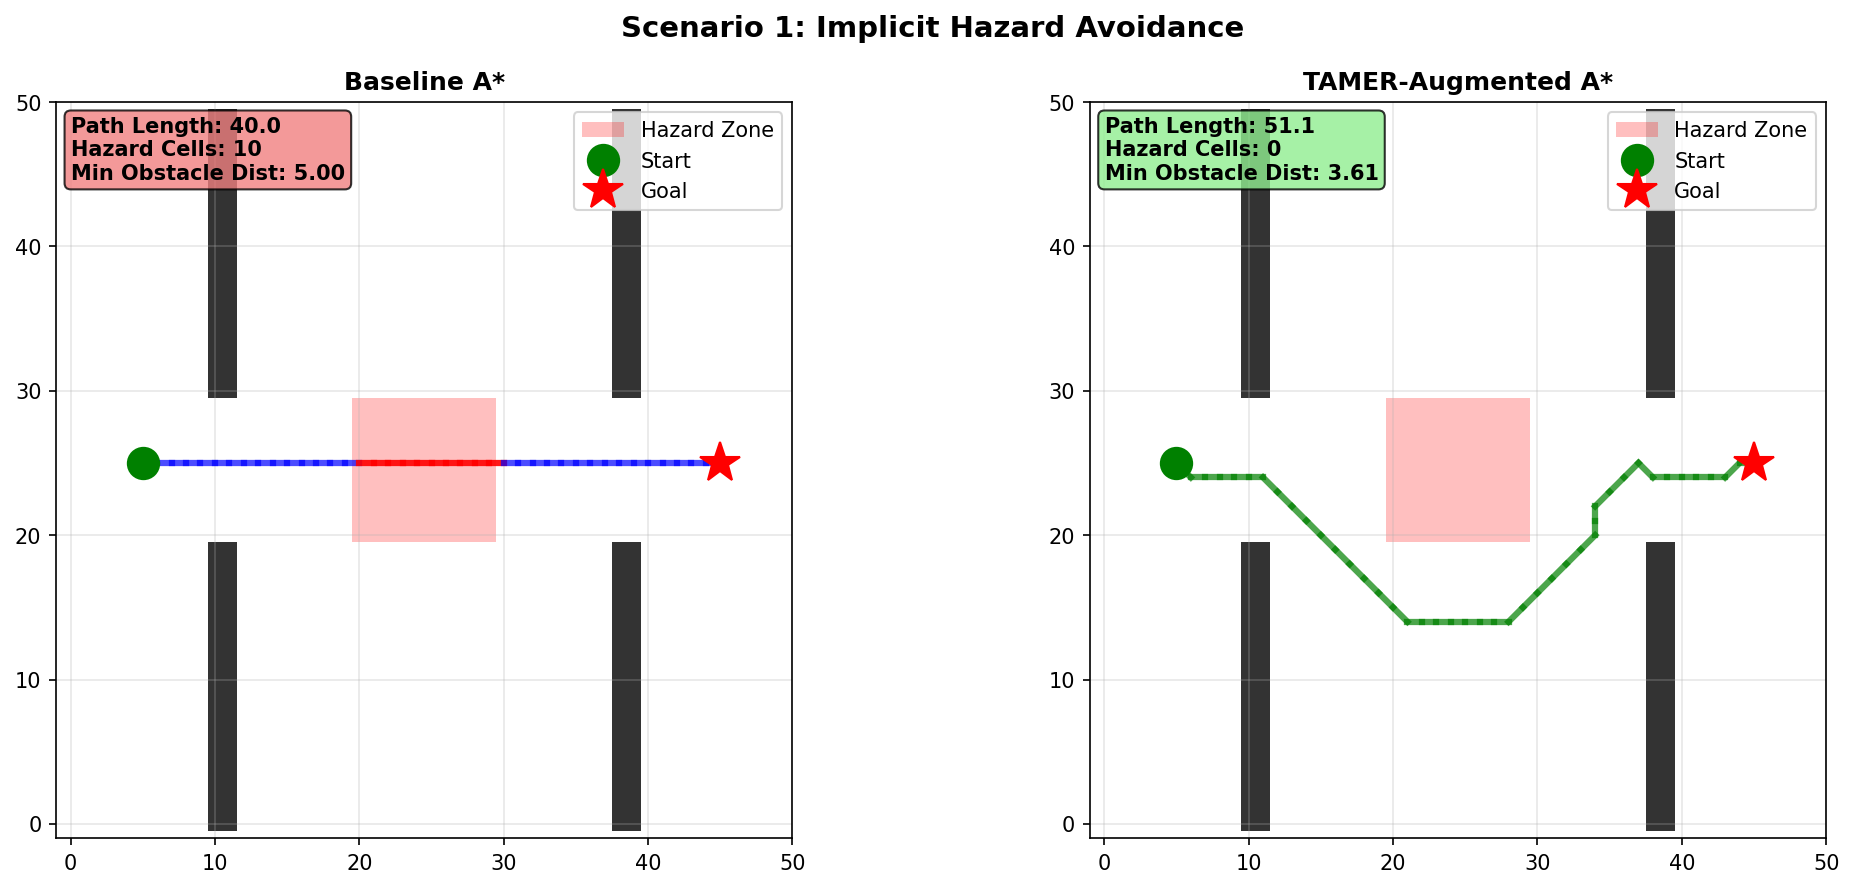
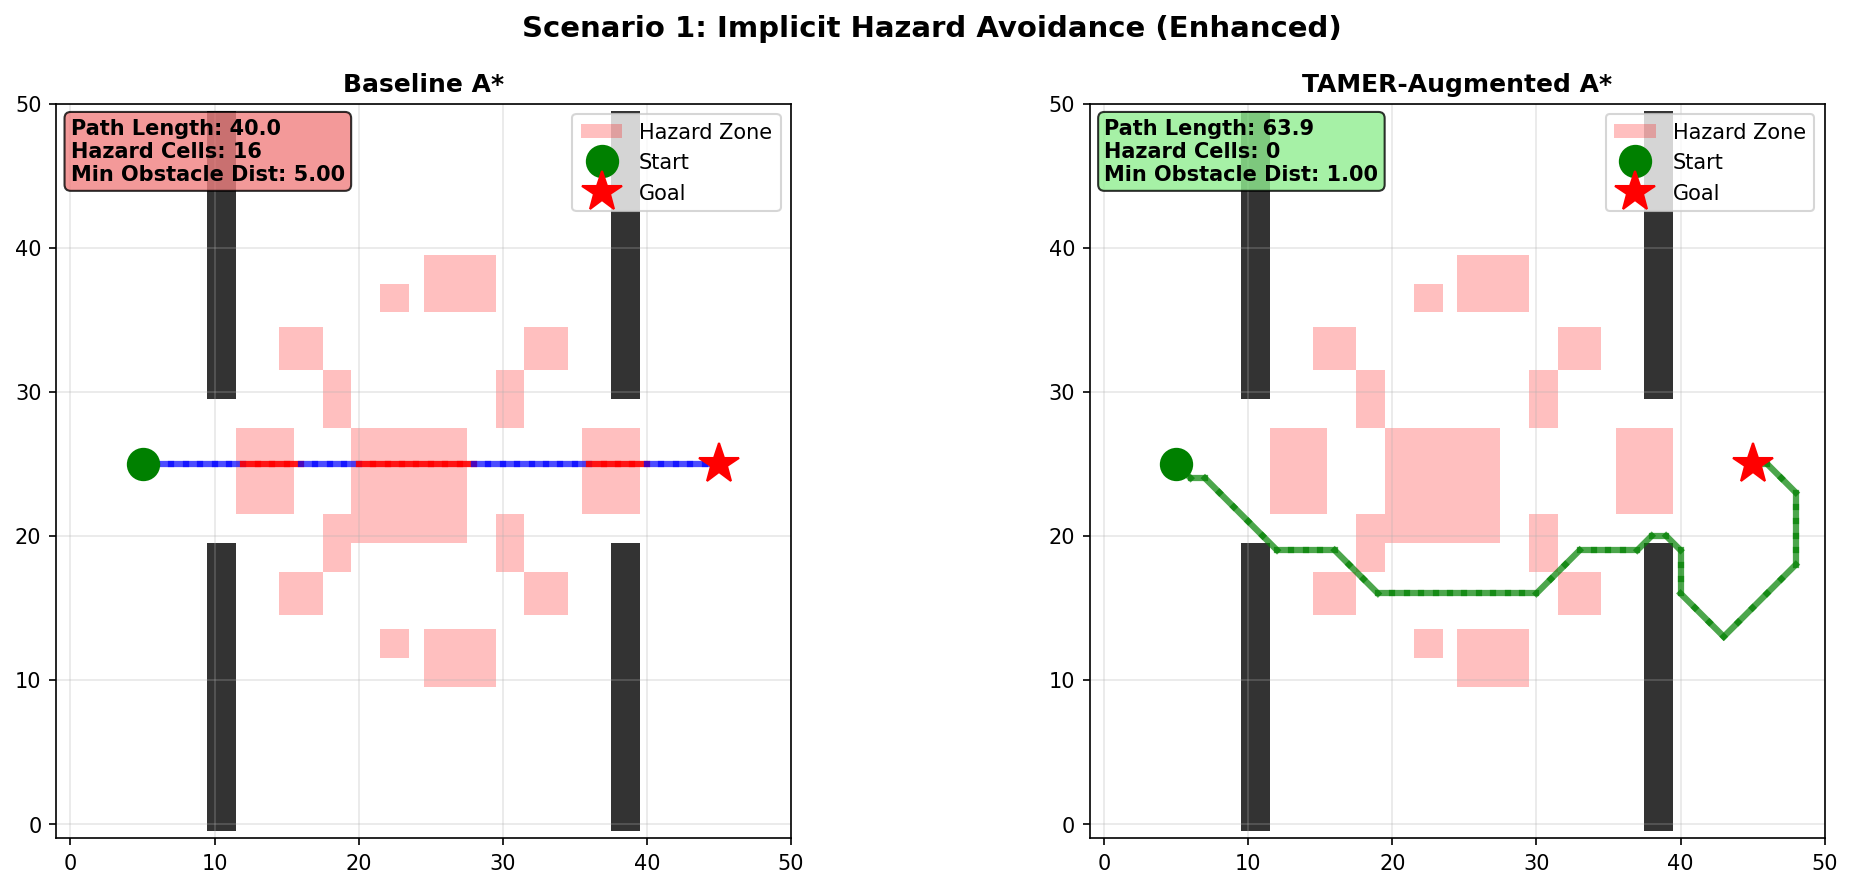
scenario 2 successsfully running

diff --git a/tamer_evaluation_suite.py b/tamer_evaluation_suite.py
@@ -184,11 +184,22 @@ class AutomatedTAMERTrainer:
                 hazard_cells = sum(1 for p in path if p in self.world.hazard_zones)
                 min_obstacle_dist = min(self.distance_to_nearest_obstacle(p) for p in path)
                 
+                # Calculate average obstacle distance
+                avg_obstacle_dist = 0.0
+                dist_count = 0
+                for p in path:
+                    dist = self.distance_to_nearest_obstacle(p)
+                    if dist < float('inf'):
+                        avg_obstacle_dist += dist
+                        dist_count += 1
+                avg_obstacle_dist = avg_obstacle_dist / dist_count if dist_count > 0 else 0.0
+                
                 metrics.append({
                     'iteration': iteration,
                     'path_length': path_length,
                     'hazard_cells': hazard_cells,
-                    'min_obstacle_distance': min_obstacle_dist
+                    'min_obstacle_distance': min_obstacle_dist,
+                    'avg_obstacle_distance': avg_obstacle_dist
                 })
                 
                 # Simulate and apply feedback with enhanced features
@@ -330,17 +341,36 @@ class EvaluationSuite:
                                 for i in range(len(path)-1))
                 hazard_cells = sum(1 for p in path if p in world.hazard_zones)
                 
-                # Calculate min distance to obstacles
+                # Calculate min and average distance to obstacles
                 min_obs_dist = float('inf')
+                avg_obs_dist = 0.0
+                dist_count = 0
+                
                 for p in path:
+                    min_dist_to_obs = float('inf')
                     for obs in world.obstacles:
                         dist = np.sqrt((p[0]-obs[0])**2 + (p[1]-obs[1])**2)
                         min_obs_dist = min(min_obs_dist, dist)
+                        min_dist_to_obs = min(min_dist_to_obs, dist)
+                    if min_dist_to_obs < float('inf'):
+                        avg_obs_dist += min_dist_to_obs
+                        dist_count += 1
                 
-                # Metrics box
-                metrics_text = (f"Path Length: {path_length:.1f}\n"
-                              f"Hazard Cells: {hazard_cells}\n"
-                              f"Min Obstacle Dist: {min_obs_dist:.2f}")
+                if dist_count > 0:
+                    avg_obs_dist = avg_obs_dist / dist_count
+                else:
+                    avg_obs_dist = float('inf')
+                
+                # Metrics box - include average distance for scenario 2
+                if scenario_idx == 1:  # Scenario 2 (0-indexed)
+                    metrics_text = (f"Path Length: {path_length:.1f}\n"
+                                  f"Hazard Cells: {hazard_cells}\n"
+                                  f"Min Obstacle Dist: {min_obs_dist:.2f}\n"
+                                  f"Avg Obstacle Dist: {avg_obs_dist:.2f}")
+                else:
+                    metrics_text = (f"Path Length: {path_length:.1f}\n"
+                                  f"Hazard Cells: {hazard_cells}\n"
+                                  f"Min Obstacle Dist: {min_obs_dist:.2f}")
                 
                 box_color = 'lightcoral' if hazard_cells > 0 else 'lightgreen'
                 ax.text(0.02, 0.98, metrics_text, transform=ax.transAxes,
@@ -372,28 +402,53 @@ class EvaluationSuite:
         
         df = pd.DataFrame(metrics)
         
-        fig, axes = plt.subplots(1, 3, figsize=(15, 4))
-        
-        # Path length over iterations
-        axes[0].plot(df['iteration'], df['path_length'], 'b-o', linewidth=2)
-        axes[0].set_xlabel('Iteration', fontsize=11)
-        axes[0].set_ylabel('Path Length', fontsize=11)
-        axes[0].set_title('Path Length vs Iteration', fontweight='bold')
-        axes[0].grid(True, alpha=0.3)
-        
-        # Hazard cells over iterations
-        axes[1].plot(df['iteration'], df['hazard_cells'], 'r-o', linewidth=2)
-        axes[1].set_xlabel('Iteration', fontsize=11)
-        axes[1].set_ylabel('Hazard Cells Crossed', fontsize=11)
-        axes[1].set_title('Hazard Avoidance Learning', fontweight='bold')
-        axes[1].grid(True, alpha=0.3)
-        
-        # Min obstacle distance over iterations
-        axes[2].plot(df['iteration'], df['min_obstacle_distance'], 'g-o', linewidth=2)
-        axes[2].set_xlabel('Iteration', fontsize=11)
-        axes[2].set_ylabel('Min Distance to Obstacle', fontsize=11)
-        axes[2].set_title('Safety Margin Improvement', fontweight='bold')
-        axes[2].grid(True, alpha=0.3)
+        # For scenario 2, show average distance instead of hazard cells
+        if scenario_idx == 1:  # Scenario 2 (0-indexed)
+            fig, axes = plt.subplots(1, 3, figsize=(15, 4))
+            
+            # Path length over iterations
+            axes[0].plot(df['iteration'], df['path_length'], 'b-o', linewidth=2)
+            axes[0].set_xlabel('Iteration', fontsize=11)
+            axes[0].set_ylabel('Path Length', fontsize=11)
+            axes[0].set_title('Path Length vs Iteration', fontweight='bold')
+            axes[0].grid(True, alpha=0.3)
+            
+            # Average obstacle distance over iterations
+            axes[1].plot(df['iteration'], df['avg_obstacle_distance'], 'g-o', linewidth=2)
+            axes[1].set_xlabel('Iteration', fontsize=11)
+            axes[1].set_ylabel('Avg Distance to Obstacle', fontsize=11)
+            axes[1].set_title('Safety Margin Learning', fontweight='bold')
+            axes[1].grid(True, alpha=0.3)
+            
+            # Min obstacle distance over iterations
+            axes[2].plot(df['iteration'], df['min_obstacle_distance'], 'orange', marker='o', linewidth=2)
+            axes[2].set_xlabel('Iteration', fontsize=11)
+            axes[2].set_ylabel('Min Distance to Obstacle', fontsize=11)
+            axes[2].set_title('Minimum Clearance', fontweight='bold')
+            axes[2].grid(True, alpha=0.3)
+        else:
+            fig, axes = plt.subplots(1, 3, figsize=(15, 4))
+            
+            # Path length over iterations
+            axes[0].plot(df['iteration'], df['path_length'], 'b-o', linewidth=2)
+            axes[0].set_xlabel('Iteration', fontsize=11)
+            axes[0].set_ylabel('Path Length', fontsize=11)
+            axes[0].set_title('Path Length vs Iteration', fontweight='bold')
+            axes[0].grid(True, alpha=0.3)
+            
+            # Hazard cells over iterations
+            axes[1].plot(df['iteration'], df['hazard_cells'], 'r-o', linewidth=2)
+            axes[1].set_xlabel('Iteration', fontsize=11)
+            axes[1].set_ylabel('Hazard Cells Crossed', fontsize=11)
+            axes[1].set_title('Hazard Avoidance Learning', fontweight='bold')
+            axes[1].grid(True, alpha=0.3)
+            
+            # Min obstacle distance over iterations
+            axes[2].plot(df['iteration'], df['min_obstacle_distance'], 'g-o', linewidth=2)
+            axes[2].set_xlabel('Iteration', fontsize=11)
+            axes[2].set_ylabel('Min Distance to Obstacle', fontsize=11)
+            axes[2].set_title('Safety Margin Improvement', fontweight='bold')
+            axes[2].grid(True, alpha=0.3)
         
         plt.suptitle(f"{title} - Training Progress", fontsize=13, fontweight='bold')
         plt.tight_layout()
@@ -409,22 +464,54 @@ class EvaluationSuite:
         
         # Create summary table
         summary_data = []
-        for result in self.results:
+        for idx, result in enumerate(self.results):
             baseline_path = result['baseline_path']
             tamer_path = result['tamer_path']
+            world = result['world']
             
             if baseline_path and tamer_path:
                 baseline_length = sum(np.sqrt((baseline_path[i+1][0]-baseline_path[i][0])**2 + 
                                              (baseline_path[i+1][1]-baseline_path[i][1])**2) 
                                     for i in range(len(baseline_path)-1))
-                baseline_hazards = sum(1 for p in baseline_path if p in result['world'].hazard_zones)
+                baseline_hazards = sum(1 for p in baseline_path if p in world.hazard_zones)
                 
                 tamer_length = sum(np.sqrt((tamer_path[i+1][0]-tamer_path[i][0])**2 + 
                                           (tamer_path[i+1][1]-tamer_path[i][1])**2) 
                                for i in range(len(tamer_path)-1))
-                tamer_hazards = sum(1 for p in tamer_path if p in result['world'].hazard_zones)
+                tamer_hazards = sum(1 for p in tamer_path if p in world.hazard_zones)
                 
-                summary_data.append({
+                # Calculate average obstacle distances for scenario 2
+                baseline_avg_dist = 0.0
+                tamer_avg_dist = 0.0
+                
+                if idx == 1:  # Scenario 2 (0-indexed)
+                    # Baseline average distance
+                    baseline_dist_sum = 0.0
+                    baseline_dist_count = 0
+                    for p in baseline_path:
+                        min_dist = float('inf')
+                        for obs in world.obstacles:
+                            dist = np.sqrt((p[0]-obs[0])**2 + (p[1]-obs[1])**2)
+                            min_dist = min(min_dist, dist)
+                        if min_dist < float('inf'):
+                            baseline_dist_sum += min_dist
+                            baseline_dist_count += 1
+                    baseline_avg_dist = baseline_dist_sum / baseline_dist_count if baseline_dist_count > 0 else 0.0
+                    
+                    # TAMER average distance
+                    tamer_dist_sum = 0.0
+                    tamer_dist_count = 0
+                    for p in tamer_path:
+                        min_dist = float('inf')
+                        for obs in world.obstacles:
+                            dist = np.sqrt((p[0]-obs[0])**2 + (p[1]-obs[1])**2)
+                            min_dist = min(min_dist, dist)
+                        if min_dist < float('inf'):
+                            tamer_dist_sum += min_dist
+                            tamer_dist_count += 1
+                    tamer_avg_dist = tamer_dist_sum / tamer_dist_count if tamer_dist_count > 0 else 0.0
+                
+                row_data = {
                     'Scenario': result['scenario'].split(':')[0],
                     'Baseline Length': f"{baseline_length:.1f}",
                     'TAMER Length': f"{tamer_length:.1f}",
@@ -432,7 +519,15 @@ class EvaluationSuite:
                     'Baseline Hazards': baseline_hazards,
                     'TAMER Hazards': tamer_hazards,
                     'Hazard Reduction': f"{baseline_hazards - tamer_hazards:+d}"
-                })
+                }
+                
+                # Add average distance for scenario 2
+                if idx == 1:
+                    row_data['Baseline Avg Dist'] = f"{baseline_avg_dist:.2f}"
+                    row_data['TAMER Avg Dist'] = f"{tamer_avg_dist:.2f}"
+                    row_data['Dist Improvement'] = f"{((tamer_avg_dist-baseline_avg_dist)/baseline_avg_dist*100):+.1f}%"
+                
+                summary_data.append(row_data)
         
         # Create table
         ax = plt.subplot(2, 1, 1)

diff --git a/tamer_astar_baseline.py b/tamer_astar_baseline.py
@@ -227,7 +227,7 @@ class Visualizer:
         return fig
 
 def create_scenario_1():
-    """Scenario 1: Implicit Hazard Zone"""
+    """Scenario 1: Implicit Hazard Zone - Enhanced Complexity"""
     world = GridWorld(50, 50)
     
     # Add walls forming a corridor
@@ -236,30 +236,119 @@ def create_scenario_1():
     world.add_obstacle(38, 0, 2, 20)
     world.add_obstacle(38, 30, 2, 20)
     
-    # Add hazard zone in the middle (shortest path goes through here)
-    world.add_hazard_zone(20, 20, 10, 10)
+    # ENHANCED: Multiple hazard zones of varying sizes and strategic locations
+    
+    # Large central hazard zone (original, but slightly smaller to allow more navigation options)
+    world.add_hazard_zone(20, 20, 8, 8)
+    
+    # Additional hazard zones creating a maze-like pattern
+    # Hazard zone near start - forces careful initial navigation
+    world.add_hazard_zone(12, 22, 4, 6)
+    
+    # Hazard zone near goal - requires careful final approach
+    world.add_hazard_zone(36, 22, 4, 6)
+    
+    # Scattered smaller hazard zones in the corridor
+    world.add_hazard_zone(15, 15, 3, 3)
+    world.add_hazard_zone(15, 32, 3, 3)
+    world.add_hazard_zone(32, 15, 3, 3)
+    world.add_hazard_zone(32, 32, 3, 3)
+    
+    # Hazard zones creating alternative path challenges
+    world.add_hazard_zone(25, 10, 5, 4)
+    world.add_hazard_zone(25, 36, 5, 4)
+    
+    # Narrow hazard zones that create bottlenecks
+    world.add_hazard_zone(18, 18, 2, 4)
+    world.add_hazard_zone(30, 18, 2, 4)
+    world.add_hazard_zone(18, 28, 2, 4)
+    world.add_hazard_zone(30, 28, 2, 4)
+    
+    # Additional scattered hazards for increased complexity
+    world.add_hazard_zone(22, 12, 2, 2)
+    world.add_hazard_zone(26, 12, 2, 2)
+    world.add_hazard_zone(22, 36, 2, 2)
+    world.add_hazard_zone(26, 36, 2, 2)
     
     start = (5, 25)
     goal = (45, 25)
     
-    return world, start, goal, "Scenario 1: Implicit Hazard Avoidance"
+    return world, start, goal, "Scenario 1: Implicit Hazard Avoidance (Enhanced)"
 
 def create_scenario_2():
-    """Scenario 2: Safety Margin Preference"""
+    """Scenario 2: Safety Margin Preference - Enhanced Complexity"""
     world = GridWorld(50, 50)
     
-    # Create narrow passage
+    # STRATEGIC OBSTACLE PLACEMENT: Create a path where baseline A* will go very close,
+    # but TAMER will learn to maintain better safety margins
+    
+    # Main narrow passage (forces path through center)
     world.add_obstacle(20, 0, 2, 18)
     world.add_obstacle(20, 22, 2, 28)
     
-    # Add obstacles near the passage
-    world.add_obstacle(15, 18, 2, 4)
-    world.add_obstacle(25, 18, 2, 4)
+    # CRITICAL: Place obstacles VERY close to the optimal path
+    # These will force baseline A* to squeeze through with minimal distance
+    # But TAMER should learn to go around with better margins
+    
+    # Obstacles creating tight squeeze on the direct path (y=20)
+    # Baseline will go through at y=20, passing very close (distance ~1.0)
+    world.add_obstacle(15, 19, 2, 2)  # Very close to path at y=20
+    world.add_obstacle(15, 21, 2, 2)  # Very close to path at y=20
+    world.add_obstacle(25, 19, 2, 2)  # Very close to path at y=20
+    world.add_obstacle(25, 21, 2, 2)  # Very close to path at y=20
+    
+    # Additional tight squeezes along the path
+    world.add_obstacle(10, 19, 1, 2)  # Single cell obstacle very close
+    world.add_obstacle(10, 21, 1, 2)
+    world.add_obstacle(30, 19, 1, 2)
+    world.add_obstacle(30, 21, 1, 2)
+    
+    # Obstacles near start - baseline will squeeze through
+    world.add_obstacle(7, 19, 1, 2)
+    world.add_obstacle(7, 21, 1, 2)
+    
+    # Obstacles near goal - baseline will squeeze through
+    world.add_obstacle(42, 19, 1, 2)
+    world.add_obstacle(42, 21, 1, 2)
+    
+    # Create alternative safer paths (slightly above and below y=20)
+    # TAMER should learn to prefer these with better margins
+    
+    # Safer path option above (around y=17-18)
+    world.add_obstacle(12, 15, 3, 1)  # Creates gap at y=16-17
+    world.add_obstacle(28, 15, 3, 1)
+    
+    # Safer path option below (around y=23-24)
+    world.add_obstacle(12, 24, 3, 1)  # Creates gap at y=23-24
+    world.add_obstacle(28, 24, 3, 1)
+    
+    # Additional obstacles that create narrow but safer passages
+    # These encourage TAMER to learn better margins
+    world.add_obstacle(18, 16, 1, 1)
+    world.add_obstacle(22, 16, 1, 1)
+    world.add_obstacle(18, 24, 1, 1)
+    world.add_obstacle(22, 24, 1, 1)
+    
+    # Obstacles creating side passages with better clearance
+    world.add_obstacle(14, 12, 2, 2)
+    world.add_obstacle(32, 12, 2, 2)
+    world.add_obstacle(14, 26, 2, 2)
+    world.add_obstacle(32, 26, 2, 2)
+    
+    # More obstacles along the tight path to reinforce the challenge
+    world.add_obstacle(13, 20, 1, 1)  # Right on the path - forces detour
+    world.add_obstacle(27, 20, 1, 1)   # Right on the path - forces detour
+    
+    # Obstacles near start/goal that create tight squeezes
+    world.add_obstacle(3, 19, 2, 2)
+    world.add_obstacle(3, 21, 2, 2)
+    world.add_obstacle(46, 19, 2, 2)
+    world.add_obstacle(46, 21, 2, 2)
     
     start = (5, 20)
     goal = (45, 20)
     
-    return world, start, goal, "Scenario 2: Safety Margin Preference"
+    return world, start, goal, "Scenario 2: Safety Margin Preference (Enhanced)"
 
 def create_scenario_3():
     """Scenario 3: Subjective Route Preference"""
